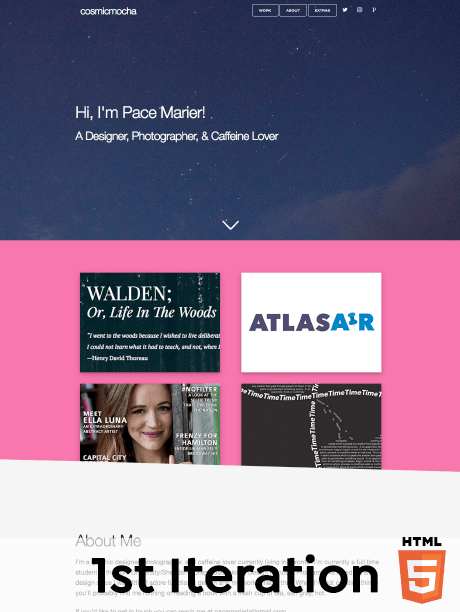
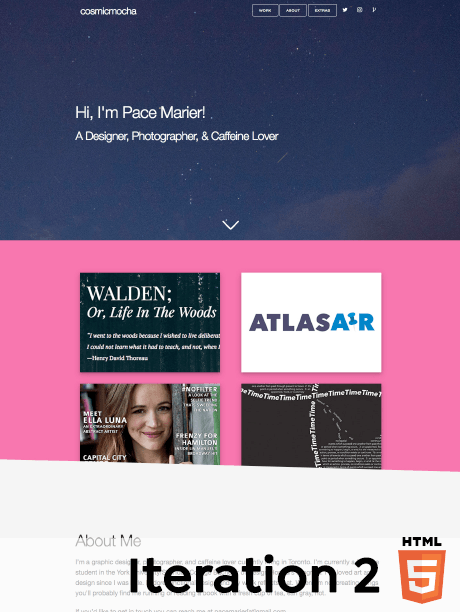
Replaced Placeholders

Changed region(s): [[0.1826, 0.9003, 0.8217, 0.9935]]

diff --git a/FM-VID_proj1_PaceMarier/old/process-version-1/css/styles.css b/FM-VID_proj1_PaceMarier/old/process-version-1/css/styles.css
@@ -1,0 +1,141 @@
+/*  Style sheet - Enter name and notes here */
+
+@import url('https://fonts.googleapis.com/css?family=Lora:400,400i,700|Open+Sans:300,400,700');
+
+font-family: 'Open Sans', sans serif;
+font-family: 'Lora', serif;
+
+/* From http://green-beast.com/blog/?p=109
+  The star selector is used to target every element.  This is
+  often used to zero out the margin and padding.  This
+  creates some common ground from which to begin.
+*/
+* {
+}
+
+/*
+  body is used to provide basic page styles meant to be inherited
+  by nearly all of the page’s children: font-face, size, alignment,
+  etc. Some use the html selector, but I have never done that so
+  it’s not listed.
+*/
+body {
+font-family: 'Lora', Helvetica, Arial, sans-serif;
+margin: 0;
+}
+
+/*
+  The wrapper div can be used to contain the page itself. It can
+  also redefine some characteristics inherited from the body. It
+  is high on this page as it’ll contain everything else used.
+*/
+#container {
+	position: relative;
+	margin: 0 auto;
+	width: 100%;
+	max-width: 720px;
+}
+
+
+/*
+  Most pages will have links. Let’s style them using a anchor
+  element. Some will write this as a:link. I don’t — I don’t
+  see the need
+*/
+a {
+color: #fff;
+text-decoration: none;
+}
+
+/*
+  Links really should have some interactivity characteristics for
+  accessibility and usability reasons. The a:hover pseudo-class is
+  offered as is a:focus. Internet Explorer (IE) doesn’t support
+  a:focus, but it does use the a:active state so it’s here too.
+*/
+a:hover, a:focus, a:active {
+color: red;
+text-decoration: none;
+}
+
+/*
+  Focus/active should be different than hover is some regards, such
+  as providing a background color to make it highly visible to
+  keyboard users. Thus, certain focal styles may be redefined.
+*/
+
+a:focus, a:active {
+}
+
+/*
+  In addition to background images, most web pages will offer
+  embedded images (img), so I will offer them here. Mostly this
+  is used to remove borders and text-decoration
+  (if the image is a link).
+*/
+img, a img {
+}
+
+nav {
+	margin-top: -115px;
+	position: fixed;
+	width: 100%;
+	height: 35px;
+	background-color: black;
+	z-index: 100;
+}
+nav ul {
+	list-style-type: none;
+	padding-top: 6px;
+	text-align: center;
+}
+nav li {
+	font-family: 'Open Sans';
+	font-weight: 300;
+	padding-right: 27px;
+	display: inline;
+	text-transform: uppercase;
+	font-size: 12px;
+	letter-spacing: 2px;
+}
+
+#masthead {
+	margin: 115px 0 115px 0;
+}
+
+header {
+font-size: 60px;
+font-family: 'Open Sans';
+font-weight: 700;
+text-align: center;
+}
+
+article {
+	font-family: 'Lora';
+	font-size: 24px;
+	text-align: center;
+	color: #565656;
+}
+
+section h3 {
+	margin-top: 45px;
+	font-family: 'Open Sans';
+	font-size: 38px;
+	font-weight: 700;
+}
+section p {
+	margin-top: -15px;
+	padding-bottom: 22px;
+	font-family: 'Lora';
+	font-size: 18px;
+	line-height: 28px;
+	color: #2d2d2d;
+}
+
+footer {
+font-size: 11px;
+font-family: 'Lora';
+color: #c0c0c0;
+margin: 5px 0 5px 0;
+text-align: center;
+}

diff --git a/FM-VID_proj1_PaceMarier/old/process-version-1/index.html b/FM-VID_proj1_PaceMarier/old/process-version-1/index.html
@@ -1,0 +1,41 @@
+<!DOCTYPE HTML>
+<html>
+<head>
+	<meta charset="UTF-8">
+	<title>Insert Title Here</title>
+	<link rel="stylesheet" href="css/styles.css">
+</head>
+<body>
+	<nav>
+		<ul id="container">
+			<li>
+			<a href="exA.html">Exercise A</a>
+			</li>
+			<li>
+			<a href="exB.html">Exercise B</a>
+			</li>
+			<li>
+			<a href="#">Project 1B</a>
+			</li>
+		</ul>
+	</nav>
+	<div id="container">
+		<div id="masthead">
+		<header>Pace Marier</header>
+			<article>
+				 Insert Inspirational Description Here
+			</article>
+		</div>
+			<hr color="#eaeaea">
+		<section>
+			<h3>Lorem Ipsum Co.</h3>
+			<p>Typewriter tote bag beard neutra dreamcatcher whatever subway tile irony man braid gentrify tumblr street art fam. Pinterest brooklyn pabst lomo vegan +1 heirloom hexagon drinking vinegar flexitarian pork belly godard stumptown. Synth etsy plaid, brunch photo booth tofu gluten-free banjo four dollar toast +1 adaptogen. Cliche four dollar toast you probably haven't heard of them banh mi, unicorn skateboard green juice single-origin coffee direct trade af tofu organic ethical. Jean shorts next level messenger bag mlkshk. Cardigan shaman palo santo VHS.</p>
+			<p>Typewriter tote bag beard neutra dreamcatcher whatever subway tile irony man braid gentrify tumblr street art fam. Pinterest brooklyn pabst lomo vegan +1 heirloom hexagon drinking vinegar flexitarian pork belly godard stumptown. Synth etsy plaid, brunch photo booth tofu gluten-free banjo four dollar toast +1 adaptogen. Cliche four dollar toast you probably haven't heard of them banh mi, unicorn skateboard green juice single-origin coffee direct trade af tofu organic ethical. Jean shorts next level messenger bag mlkshk. Cardigan shaman palo santo VHS.</p>
+		</section>
+		<hr color="#eaeaea">
+		<footer>
+			YSDN1006 - Pace Marier
+		</footer>
+	</div>
+</body>
+</html>

diff --git a/project-one.html b/project-one.html
@@ -70,29 +70,21 @@
         <a href="FM-VID_proj1_PaceMarier/pdf/process-mockups.pdf"><img  src="img/proj1-thumbnail-02.png" /></a>
       </div>
       <div class="column-half">
-        <a href="FM-VID_proj1_PaceMarier/old/process-version-one/index.html"><img  src="img/proj1-thumbnail-03.png" /></a>
+          <a href="FM-VID_proj1_PaceMarier/old/process-version-1/index.html"><img  src="img/proj1-thumbnail-07.png" /></a>
       </div>
       </div>
       <div class="row">
         <div class="column-half">
-  <img  src="http://via.placeholder.com/460x612" />
+          <a href="FM-VID_proj1_PaceMarier/old/process-version-2/index.html"><img  src="img/proj1-thumbnail-03.png" /></a>
         </div>
         <div class="column-half">
-  <img  src="http://via.placeholder.com/460x612" />
+          <a href="index.html"><img  src="img/proj1-thumbnail-06.png" /></a>
         </div>
         </div>
-        <div class="row">
-          <div class="column-half">
-    <img  src="http://via.placeholder.com/460x612" />
-          </div>
-          <div class="column-half">
-            <a href="index.html"><img  src="img/proj1-thumbnail-06.png" /></a>
-          </div>
-          </div>
           <br><br><br><br>
 </section>
 <!-- Bottom Image (currently a placeholder) -->
-<div class="about-end-image"></div>
+<div class="process-end-image"></div>
 <section class="portfolio-container">
   <div class="row">
     <div class="column-whole portfolio-content">
@@ -103,7 +95,7 @@
   <div class="row">
     <div class="column-half">
 
-      <img  src="http://via.placeholder.com/460x612" />
+      <img  src="img/proj1-thumbnail-10.png" />
     </div>
     <div class="column-half">
       <a href="FM-VID_proj1_PaceMarier/old/teapot-wireframe/tea-1.html"><img  src="img/proj1-thumbnail-09.png" /></a>

diff --git a/css/style.css b/css/style.css
@@ -523,6 +523,16 @@ div.proj1B-end-image {
   background-repeat: no-repeat;
   background-size: contain;
 }
+div.process-end-image {
+  clear: both;
+  position: relative;
+  width: 100%;
+  height: 75%;
+  background-image: url("../img/proj-placeholder1.png");
+  background-position: center;
+  background-repeat: no-repeat;
+  background-size: contain;
+}
 .portfolio-content h2 {
   text-align: left;
   font-size: 46px;
